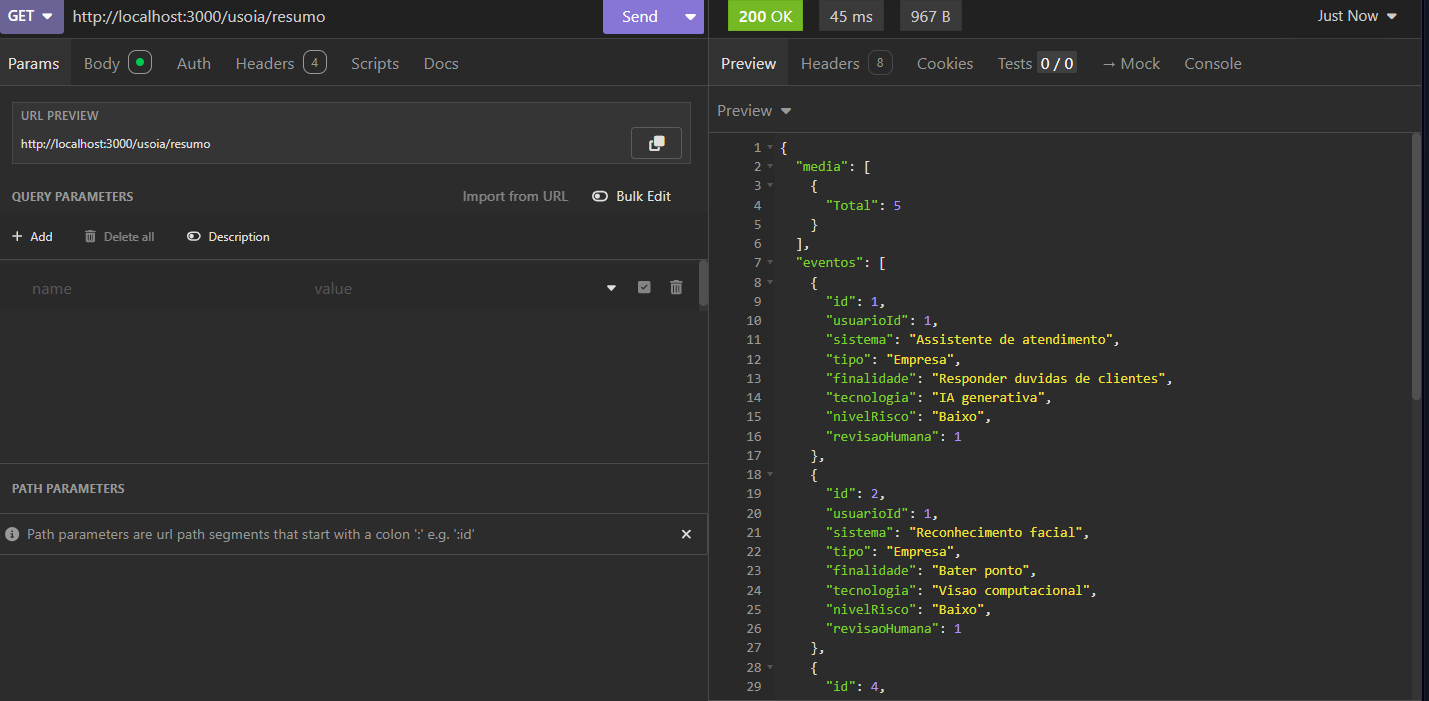
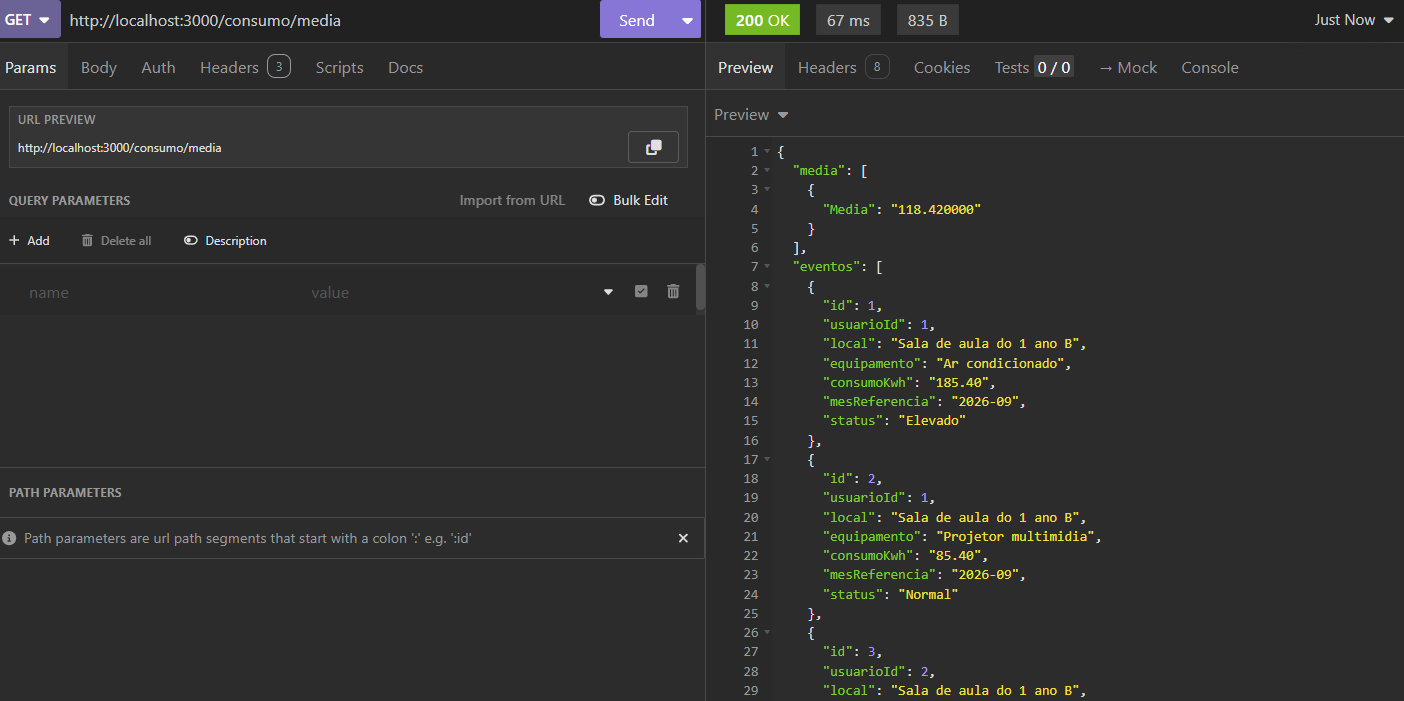
media

diff --git a/controllers/consumoController.js b/controllers/consumoController.js
@@ -49,3 +49,18 @@ export const remove = async (req, res) => {
     res.status(500).json({ success: false, error: error.message });
   }
 };
+
+// GET /consumo/media - Calcular média e listar registros
+export const media = async (req, res) => {
+  try {
+    const [mediaRows] = await db.query(
+      'SELECT AVG(consumoKwh) AS Media FROM consumo'
+    );
+    const [eventos] = await db.query('SELECT * FROM consumo');
+
+    res.json({ media: mediaRows, eventos });
+  } catch (error) {
+    console.error(error);
+    res.status(500).json({ success: false, error: error.message });
+  }
+};

diff --git a/routes/consumoRoutes.js b/routes/consumoRoutes.js
@@ -1,5 +1,5 @@
 import express from 'express';
-import { getAll, create, update, remove } from '../controllers/consumoController.js';
+import { getAll, create, update, remove, media } from '../controllers/consumoController.js';
 
 const router = express.Router();
 
@@ -7,5 +7,6 @@ router.get('/', getAll);
 router.post('/', create);
 router.put('/:id', update);
 router.delete('/:id', remove);
+router.get('/media', media)
 
 export default router;

diff --git a/README.md b/README.md
@@ -1,7 +1,7 @@
-# Gestão de resíduos Sólidos
+# Registro de Consumo de Energia
 
 ## Descrição
-Atividade 1 de backend com **CRUDS** e Banco de Dados
+Atividade 3 de backend com **CRUDS** e Banco de Dados
 
 ## Diagrama de classes
 ![Imagem](./docs/der_energia.png)
@@ -26,7 +26,7 @@ Atividade 1 de backend com **CRUDS** e Banco de Dados
 ![Imagem](./docs/usuario/excluir.png)
 ![Imagem](./docs/usuario/login.png)
 
-## Uso de IA
+## Consumo
 ![Imagem](./docs/consumo/listar.png)
 ![Imagem](./docs/consumo/cadastrar.png)
 ![Imagem](./docs/consumo/alterar.png)
